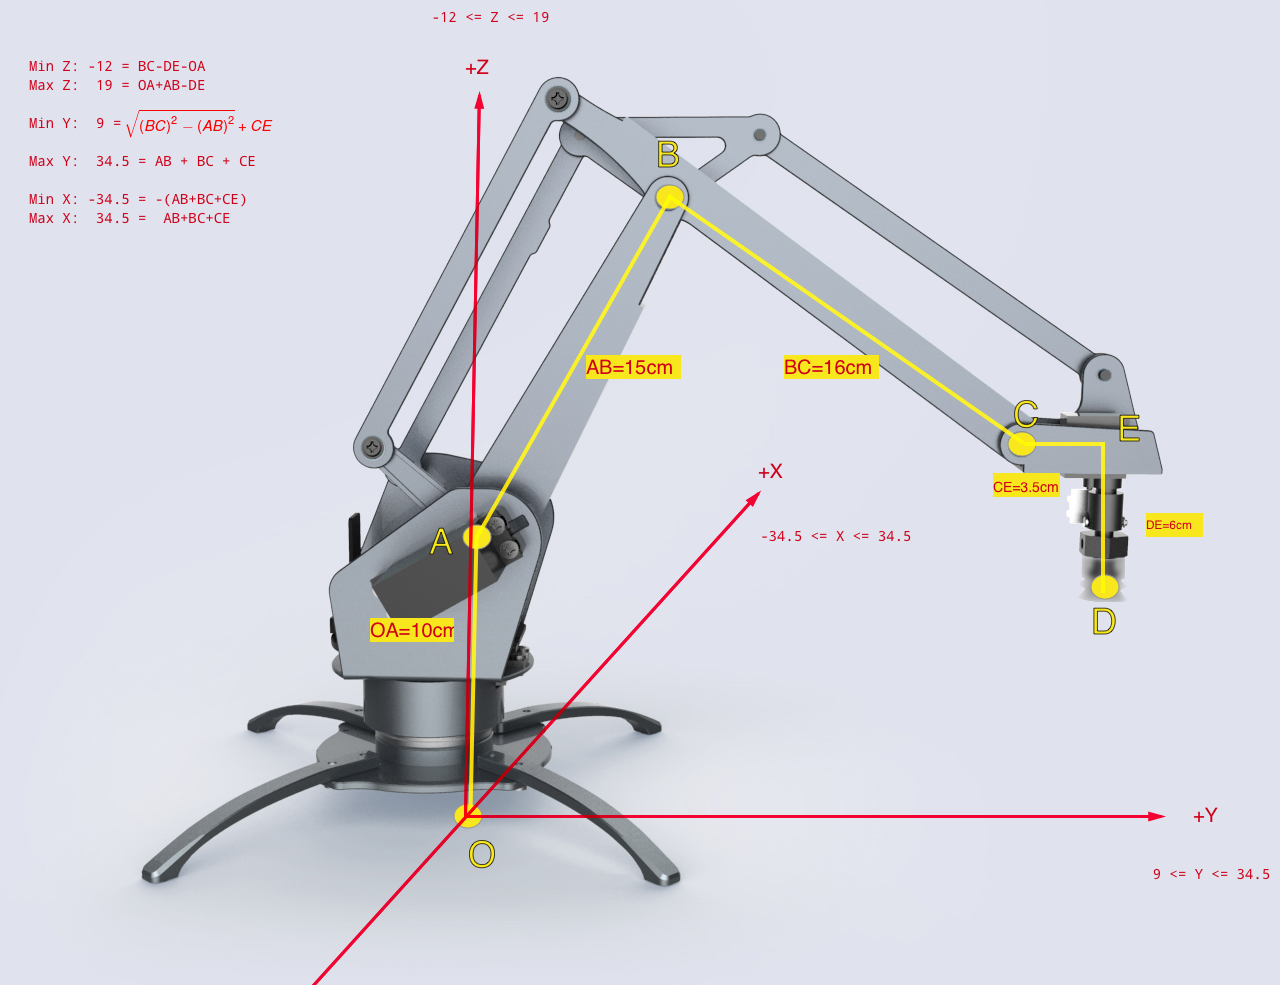
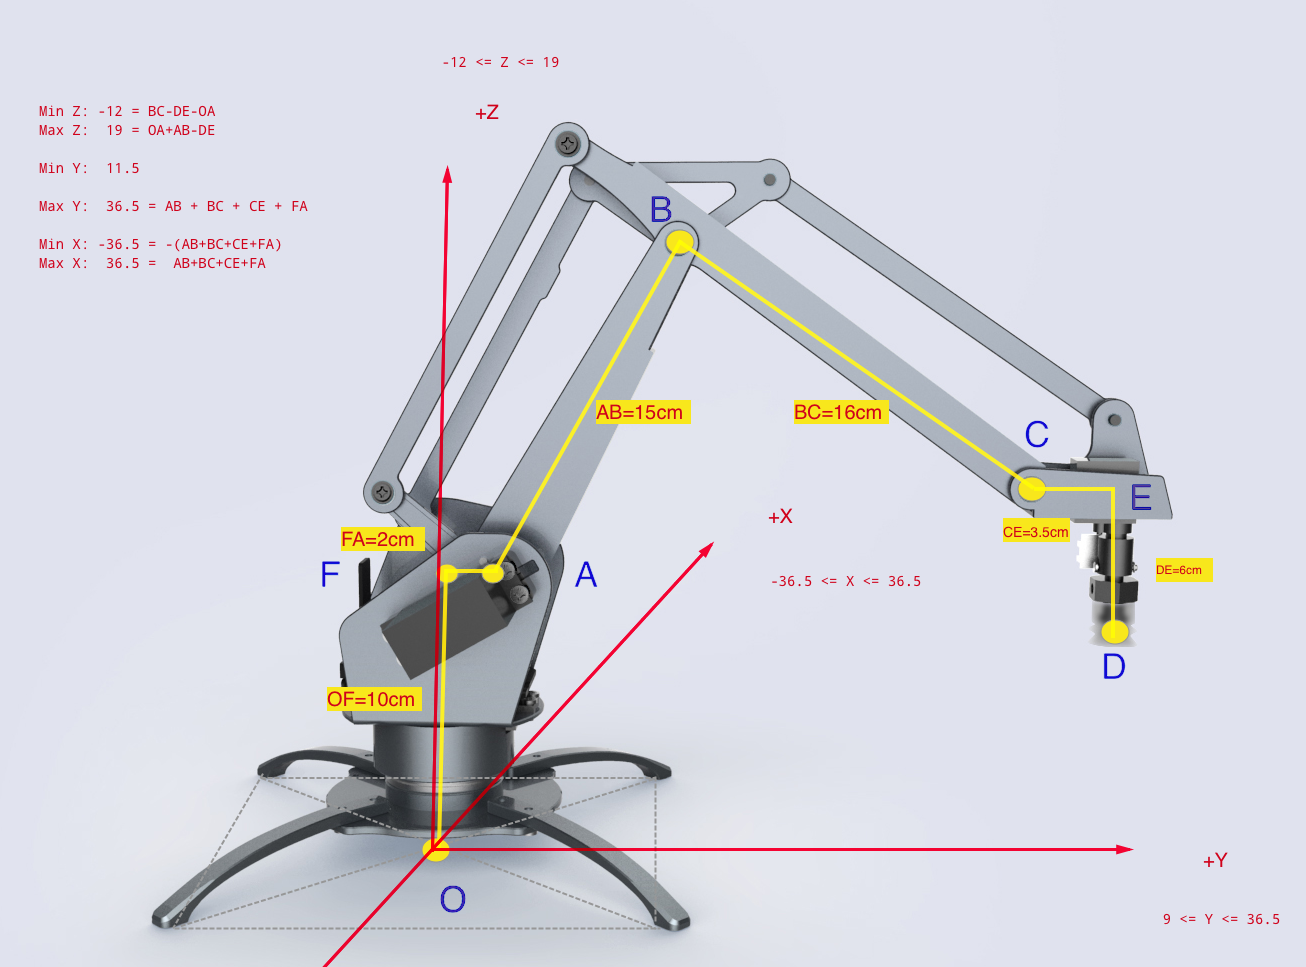
instruction

diff --git a/docs/instruction.md b/docs/instruction.md
@@ -1,13 +1,17 @@
 # 开发者指南 Developer Instruction
 
-## uArm 基本教程
+## uArm 基本知识讲解
 如果你刷的是我们的通用固件，我们在固件里面包括了uArm Library 还有uArm Protocol 通信协议。
 uArm 在通电以后  
+
 1. 会读取当前的角度，然后会attach所有电机。  
     *如果uArm没有校正，它会发出一声长鸣，要求你进行校正。你可以使用我们的开发者工具`uarm-calibrate`*  
+
 2. 然后uArm就自动进入准备状态，如果这个时候你发送了指令（通过uArmProtocol协议），uArm自动进行解析，并执行相应的动作，如果你希望自己书写与uArm通信，你可以参照通信协议  
+
 3. 我们更推荐的方式使用我们已经封装好的API接口，你无需要再去理解复杂的协议，并且也无需要学习串口编程。上手即可用。  
-4. 在你开始任何项目之前，请认真阅读以下的指南，不能说百分之百解决你遇到的问题，但是起码你有一些基本的知识。  
+
+4. 在你开始任何项目之前，请认真阅读以下的指南，不能说百分之百解决你遇到的问题，但是起码你有一些基本的知识。
 
 ## 机械运动 Mechanical Motion
 
@@ -29,7 +33,7 @@ Servo 2 - Right Servo
 对应的Arduino PWM PIN D10, Analog PIN 3
 这个小电机控制uArm前端，吸头(Suction cup)的角度旋转
 
-### 电机
+### 电机  
 
 说到电机的控制，就要提到Arduino，众所周知，uArm是开源的机械臂。这得益于Arduino的开源。我们可以很方便的使用成千上万的开源库。而我们选用的电机是可以支持Arduino的servo.h库
 
@@ -80,7 +84,7 @@ Servo 2 - Right Servo
 
 直接控制全部电机的转动，可以很直接的控制uArm的运动，但是很不直观，也很危险。所以我们建立一个三维坐标系(x,y,z)，以`厘米`为单位。请看下图
 ![coordinate](img/instruction/uarm_coordinate.png)
-<center>图1.1 坐标系示意图</center>
+<center>图1.2 坐标系示意图</center>
 上图详细标注了uArm的六个连接点(O, A, B, C, D, E)，以及5个连接线(OA, AB, BC, CD, DE)之间的长度，X, Y, Z的最大最小值。
 
 #### 连接点：  
@@ -89,26 +93,109 @@ Servo 2 - Right Servo
 - B 连接前后臂的螺丝位置（准确说是两个螺丝的中间点）
 - C 连接前臂与前端的螺丝位置 （同上）
 - D 吸头底部的中间点
-- E 点其实是不存在，是C的平行线与E的垂直线的交点
+- E 点是虚构的点，是C的平行线与E的垂直线的交点
+- F 点是虚构的点，是O的垂直线与A的平行线的交点
 
 #### 连接线
-- OA = 10 cm  轴心到原点的高度
-- AB = 15 cm  后臂长
+- OF = 10 cm  原点到左右轴中心的高度
+- AF = 2 cm   左右轴中心与原点垂直线的距离
+- AB = 14.8 cm  后臂长
 - BC = 16 cm  前臂长
 - CE = 3.5 cm 前端长
 - DE = 6 cm   吸头高度
 
 #### 极限值
-- X 的范围：-34.5cm ~ 34.5cm
-    Max X =  AB + BC + CD
 
-- Y 的范围：9cm ~ 34.5cm，
-    Max Y = Max X
-<a href="https://www.codecogs.com/eqnedit.php?latex=\inline&space;\fn_phv&space;MINY&space;=&space;\sqrt{\left&space;(&space;BC&space;\right&space;)^{2}&space;-&space;\left&space;(&space;AB&space;\right&space;)^{2}}&space;&plus;&space;CE" target="_blank"><img src="https://latex.codecogs.com/png.latex?\inline&space;\fn_phv&space;MINY&space;=&space;\sqrt{\left&space;(&space;BC&space;\right&space;)^{2}&space;-&space;\left&space;(&space;AB&space;\right&space;)^{2}}&space;&plus;&space;CE" title="MINY = \sqrt{\left ( BC \right )^{2} - \left ( AB \right )^{2}} + CE" /></a>
-    AB，BC，AC形成的一个直角三角形，BAC为直角。如以上公式：
+- X 的范围：-36.5cm ~ 36.5cm  
+    Max X =  AB + BC + CD + AF  
+
+- Y 的范围：11.5 cm ~ 36.5cm   
+    Max Y = Max X  
+    MIN Y = ![Min Y](img/instruction/formula.png)
 
 - Z 的范围：-12cm ~ 19cm  
-    Max Z = OA + AB -DE
+    Max Z = OA + AB -DE  
     Min Z = BC - DE - OA
 
 #### 活动范围
+
+通过上面的极限值，你大概可以想象到，uArm是什么样的一个活动范围。但是uArm 的活动范围并是一个不规则的范围。下图是实际uArm的活动范围。有些不能达的目标点是很危险，我们默认会对不能到达的地方做一些限制，并返回一个错误码。(并且我们提供了一个可以检查这个点能不能到达的函数 - Todo)
+
+![range](img/instruction/uarm_dimension.png)
+<center>图1.3 坐标系示意图</center>
+
+#### 精准度与偏差
+
+理论误差，在`±0.5厘米`，也就是`1厘米`的误差，但实际上跟范围和负载有关系。
+
+电机在`40`度到`140`度之间，误差是比较小，但是在小于`40`和大于`140`度的时候，误差会变得比较大
+下面是电机0到180度之间的target走位，与实际走位
+<1.4 误差图表>
+
+下图是用电机在这个范围内，误差较小的范围。
+<1.5 一个是俯视图，一个侧视图，呈现，所有的电机在40度至140度之间的范围>  
+
+## uArm套件的使用
+
+接下来开始讲解，附带的一些开发工具的讲解。  
+
+我们的uArm套件都是用python写的，目的是辅助用户，专注于开发。
+
+### 安装教程
+
+首先你需要安装uArm 的运行环境
+
+#### Windows
+
+- 由于Windows没有内置python环境，如果你需要使用这些开发套件，你必须先安装python环境。[Python Environment][python-download-link]  
+- 然后你需要安装`pip`, 这里推荐[pip-for-windows][pip-for-windows-link]
+- 装完pip以后，你就可以通过以下命令`pip install pyuarm`安装uArm的套件。
+
+
+  [python-download-link]: https://www.python.org/downloads/ "PythonDownloadLink"
+  [pip-for-windows-link]: https://sites.google.com/site/pydatalog/python/pip-for-windows "pip-for-windows"
+
+#### Mac
+
+需要:   
+- pip  
+- avrdude  
+
+强烈推荐，我们提供了非常方便的一件安装命令：
+
+```
+    bash -c "$(curl -fsSL http://download.ufactory.cc/tools/macosx/install.sh)"
+```
+
+这个命令会帮你安装所有需要用到的运行环境，非常方便哦。  
+
+
+如果你希望自己安装，你也按照下面的步骤安装：  
+- 首先安装pip - `sudo easy_install pip`
+- 然后安装pyuarm `pip install pyuarm`
+- 如果你需要固件升级固件，你还要需要安装`avrdude`，一个最方便的方法是安装 [Homebrew][Homebrew-link]
+- 安装完homebrew，以后你就可以直接用`brew install avrdude`
+
+
+  [Homebrew-link]: http://brew.sh "Homebrew"
+
+#### Linux
+
+需要：
+- pip  
+- avrdude  
+
+Linux下可以使用发行版里面的安装工具安装，例如在debain下你可以直接使用：
+```
+sudo apt-get install python-pip python-dev build-essential avrdude    
+```
+安装完以后，你就可以使用`pip install pyuarm`安装套件  
+
+#### 使用教程
+
+当你安装了所有的套件以后，你就可以使用一下套件：  
+
+- uarm-firmware 更新固件，查看固件
+- uarm-calibrate 校正uarm
+- uarm-listport 检查当前可用的uarm端口
+- uarm-miniconsole 一个纯命令行的简单控制端软件 (To-Do)
